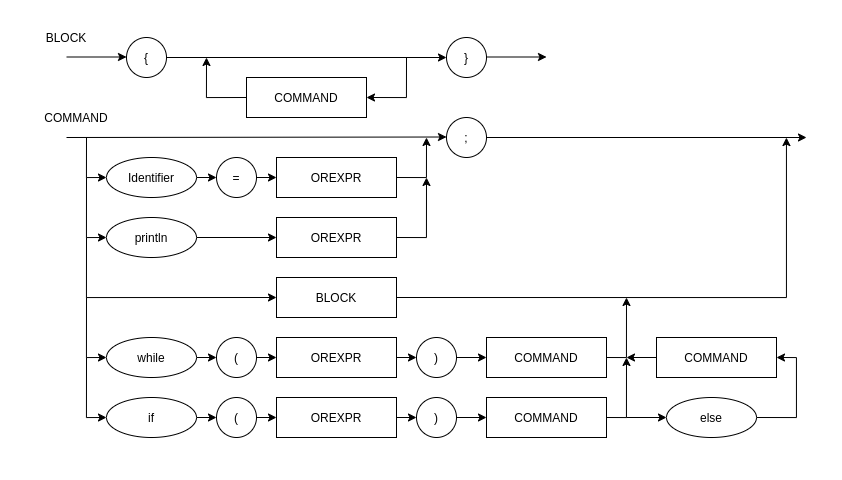
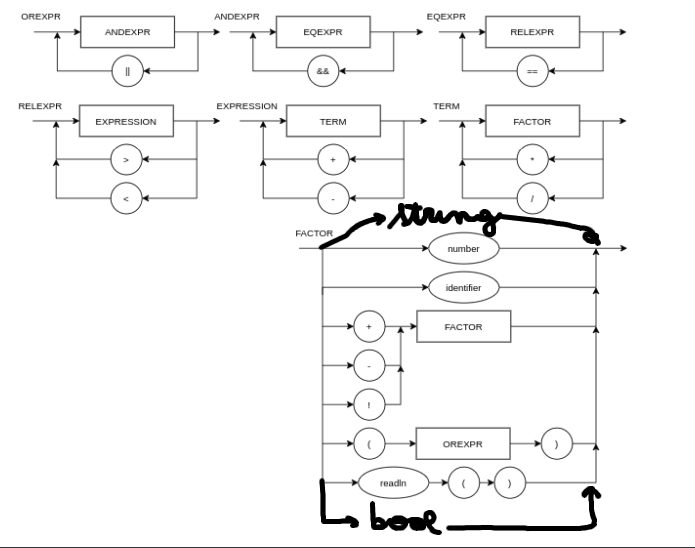
2.3

diff --git a/main.py b/main.py
@@ -2,8 +2,6 @@
 from enum import Enum
 import sys
 
-types = ["INT", "PLUS", "SUB", "DIV", "MULT", "EOF"]
-
 class Type(Enum):
 
     INT = 1
@@ -30,6 +28,11 @@ class Type(Enum):
     WHILE = 22
     SKEY = 23
     EKEY = 24
+    BOOLDEF = 25
+    INTDEF = 26
+    STRDEF = 27
+    BOOL = 28
+    STR = 29
 
 class Token:
 
@@ -53,7 +56,7 @@ class Tokenizer:
             return
 
         tmp = self.origin[self.position]
-
+        
         if tmp == ' ' or tmp == '\n': 
             while (tmp == ' ' or tmp == '\n'):
                 self.position += 1
@@ -78,8 +81,13 @@ class Tokenizer:
             self.position -= 1
             token = Token(Type.INT, int(int_))
         
-        elif tmp.isalpha():
+        elif tmp.isalpha() or tmp == '"':
             str_ = ''
+
+            if tmp == '"': 
+                str_ += '"'
+                self.position += 1
+
             while (True):
                 if len(self.origin) > self.position and (self.origin[self.position].isnumeric() or self.origin[self.position].isalpha() or self.origin[self.position] == "_"):
                     str_ += self.origin[self.position]
@@ -91,6 +99,12 @@ class Tokenizer:
                         token = Token(Type.PRINTLN, None)
                         break
                     
+                    elif str_[0] == '"':
+                        str_ += self.origin[self.position]
+                        self.position += 1
+                        token = Token(Type.STR, str_)
+                        break
+
                     elif str_ == "readln":
                         token = Token(Type.READLN, None)
                         break
@@ -105,6 +119,22 @@ class Tokenizer:
                         
                     elif str_ == "else":
                         token = Token(Type.ELSE, None)
+                        break
+                
+                    elif str_ == "bool":
+                        token = Token(Type.BOOLDEF, None)
+                        break
+                        
+                    elif str_ == "string":
+                        token = Token(Type.STRDEF, None)
+                        break
+                    
+                    elif str_ == "int":
+                        token = Token(Type.INTDEF, None)
+                        break
+                
+                    elif str_ == "true" or str_ == "false":
+                        token = Token(Type.BOOL, str_)
                         break
                         
                     else: 
@@ -176,11 +206,24 @@ class SymbolTable:
         self.dict = {}
 
     def _get(self, var_name: str) -> int:
-        if var_name in self.dict: return self.dict[var_name]
+        if var_name in self.dict: return self.dict[var_name]["value"], self.dict[var_name]["type"]
         raise_error("key not found")
 
-    def _set(self, var_name: str, var_value: int):
-        self.dict[var_name] = var_value
+    def _set(self, var_name: str, var_value: int, var_type: Type):
+        if not var_name in self.dict:
+            if var_value != None: raise_error("not initialized var")
+            self.dict[var_name] = {}
+            self.dict[var_name]["type"] = var_type
+        
+        else:
+            if var_type != None: raise_error("double definition of types")
+            if self.dict[var_name]["type"] != var_type: 
+                if var_type == Type.STR or self.dict[var_name]["type"] == Type.STR: raise_error("not compatible types")
+
+                if var_type == Type.BOOL: var_value = int(var_value)
+                elif var_type == Type.INT: var_value = bool(var_value)
+
+            self.dict[var_name]["value"] = var_value
 
 class Node:
 
@@ -196,27 +239,37 @@ class BinOp(Node):
         super().__init__(token, 2)
     
     def evaluate(self, st: SymbolTable): 
-        r = 0
-        if self.token.type_ == Type.PLUS: 
-            r = self.children[0].evaluate(st) + self.children[1].evaluate(st)
-        elif self.token.type_ == Type.SUB: 
-            r = self.children[0].evaluate(st) - self.children[1].evaluate(st)
-        elif self.token.type_ == Type.DIV: 
-            r = int(self.children[0].evaluate(st) / self.children[1].evaluate(st))
-        elif self.token.type_ == Type.MULT: 
-            r = int(self.children[0].evaluate(st) * self.children[1].evaluate(st))
-        elif self.token.type_ == Type.GT: 
-            r = self.children[0].evaluate(st) > self.children[1].evaluate(st)
-        elif self.token.type_ == Type.LT: 
-            r = self.children[0].evaluate(st) < self.children[1].evaluate(st)
-        elif self.token.type_ == Type.ET: 
-            r = self.children[0].evaluate(st) == self.children[1].evaluate(st)
-        elif self.token.type_ == Type.AND: 
-            r = self.children[0].evaluate(st) and self.children[1].evaluate(st)
-        elif self.token.type_ == Type.OR: 
-            r = self.children[0].evaluate(st) or self.children[1].evaluate(st)
+        eval1 = self.children[0].evaluate(st)
+        eval2 = self.children[1].evaluate(st)
+        
+        if (eval1[1] == Type.STR or eval2[1] == Type.STR) and self.token.type_ != Type.ET: raise_error("incompatible types")
 
-        return r
+        if self.token.type_ == Type.PLUS: 
+            return eval1[0] + eval2[1], Type.INT
+
+        elif self.token.type_ == Type.SUB: 
+            return eval1[0] - eval2[1], Type.INT
+
+        elif self.token.type_ == Type.DIV: 
+            return int(eval1[0] / eval2[0]), Type.INT
+
+        elif self.token.type_ == Type.MULT: 
+            return int(eval1[0] * eval2[0]), Type.INT
+
+        elif self.token.type_ == Type.GT:
+            return bool(eval1[0] > eval2[0]), Type.BOOL
+ 
+        elif self.token.type_ == Type.LT: 
+            return bool(eval1[0] < eval2[0]), Type.BOOL
+
+        elif self.token.type_ == Type.ET: 
+            return bool(eval1[0] == eval2[0]), Type.BOOL
+
+        elif self.token.type_ == Type.AND: 
+            return bool(eval1[0] and eval2[0]), Type.BOOL
+
+        elif self.token.type_ == Type.OR: 
+            return bool(eval1[0] or eval2[0]), Type.BOOL
 
 class AtrOp(Node):
 
@@ -224,28 +277,37 @@ class AtrOp(Node):
         super().__init__(token, 2)
     
     def evaluate(self, st: SymbolTable): 
-        st._set(self.children[0].token.value, self.children[1].evaluate(st))
+        node = self.children[1].evaluate(st)
+        st._set(self.children[0].token.value, node[0], None)
 
 class UnOp(Node):
 
     def __init__(self, token: Token):
         super().__init__(token, 1)
     
-    def evaluate(self, st: SymbolTable): return self.token.value * self.children[0].evaluate(st)
+    def evaluate(self, st: SymbolTable): 
+        node = self.children[0].evaluate(st)
+        return self.token.value * node[0], node[1]
 
 class NotOp(Node):
 
     def __init__(self, token: Token):
         super().__init__(token, 1)
     
-    def evaluate(self, st: SymbolTable): return not self.children[0].evaluate(st)
+    def evaluate(self, st: SymbolTable): 
+        node = self.children[0].evaluate(st)
+        return not node[0], node[1] 
 
 class PrintOp(Node):
 
     def __init__(self, token: Token):
         super().__init__(token, 1)
     
-    def evaluate(self, st: SymbolTable): print(self.children[0].evaluate(st))
+    def evaluate(self, st: SymbolTable): 
+        node = self.children[0].evaluate(st)
+        p = node[0]
+        if node[1] == Type.BOOL: p = "true" if node[0] else "false"
+        print(p)
 
 class ReadlnOp(Node):
 
@@ -259,7 +321,32 @@ class IntVal(Node):
     def __init__(self, token: Token):
         super().__init__(token, 0)
     
-    def evaluate(self, st: SymbolTable): return self.token.value
+    def evaluate(self, st: SymbolTable): return self.token.value, self.token.type_
+
+class StringVal(Node):
+
+    def __init__(self, token: Token):
+        super().__init__(token, 0)
+    
+    def evaluate(self, st: SymbolTable): return self.token.value[1:-1], self.token.type_
+
+class BoolVal(Node):
+
+    def __init__(self, token: Token):
+        super().__init__(token, 0)
+    
+    def evaluate(self, st: SymbolTable): return True if self.token.value == "true" else False, self.token.type_
+
+class TypeVal(Node):
+    def __init__(self, token: Token):
+        super().__init__(token, 1)
+    
+    def evaluate(self, st: SymbolTable): 
+        if self.token.type_ == Type.INTDEF: type_ = Type.INT
+        elif self.token.type_ == Type.STRDEF: type_ = Type.STR
+        elif self.token.type_ == Type.BOOLDEF: type_ = Type.BOOL
+
+        st._set(self.children[0].value, None, type_)
 
 class WhileOp(Node):
 
@@ -267,7 +354,7 @@ class WhileOp(Node):
         super().__init__(token, 2)
     
     def evaluate(self, st: SymbolTable): 
-        while(self.children[0].evaluate(st)): self.children[1].evaluate(st)
+        while(self.children[0].evaluate(st)[0]): self.children[1].evaluate(st)[0]
 
 class CondOp(Node):
 
@@ -275,11 +362,10 @@ class CondOp(Node):
         super().__init__(token, 3)
     
     def evaluate(self, st: SymbolTable): 
-        cond = self.children[0].evaluate(st)
-        if cond: self.children[1].evaluate(st)
+        cond = self.children[0].evaluate(st)[0]
+        if cond: self.children[1].evaluate(st)[0]
         if self.children[2] != None:
-            if not cond: self.children[2].evaluate(st)
-
+            if not cond: self.children[2].evaluate(st)[0]
 
 class IdentVal(Node):
 
@@ -325,10 +411,20 @@ class Parser:
             node = IntVal(self.tokenizer.actual)
             self.tokenizer.select_next()
             return node
+        
+        elif self.tokenizer.actual.type_ == Type.BOOL:
+            node = BoolVal(self.tokenizer.actual)
+            self.tokenizer.select_next()
+            return node
+        
+        elif self.tokenizer.actual.type_ == Type.STR:
+            node = StringVal(self.tokenizer.actual)
+            self.tokenizer.select_next()
+            return node
 
         elif self.tokenizer.actual.type_ == Type.PLUS or self.tokenizer.actual.type_ == Type.SUB:
             node = UnOp(self.tokenizer.actual)
-            self.tokenizer.select_next() 
+            self.tokenizer.select_next()
             node.children[0] = self.factor()
             return node
         
@@ -479,12 +575,22 @@ class Parser:
             else: raise_error("not closed sintax")
 
             return node
-        
+
+        elif self.tokenizer.actual.type_ in [Type.BOOLDEF, Type.INTDEF, Type.STRDEF]:
+            node = TypeVal(self.tokenizer.actual)
+            self.tokenizer.select_next()
+            if self.tokenizer.actual.type_ != Type.IDENTIFIER: raise_error("wrong definition of variable")
+            node.children[0] = self.tokenizer.actual
+            self.tokenizer.select_next()
+            if self.tokenizer.actual.type_ == Type.EOL: self.tokenizer.select_next()
+            else: raise_error("not closed sintax")
+            return node
+
         elif self.tokenizer.actual.type_ == Type.PRINTLN:
             node = PrintOp(self.tokenizer.actual)
             self.tokenizer.select_next()
             if self.tokenizer.actual.type_ != Type.SPARENTHESIS: raise_error("println is a reserved word")
-            node.children[0] = self.orexpr()
+            node.children[0] = self.orexpr()    
             if self.tokenizer.actual.type_ == Type.EOL: self.tokenizer.select_next()
             else: raise_error("not closed sintax")
             return node
@@ -517,7 +623,6 @@ class Parser:
             self.tokenizer.select_next()
 
         else: 
-            # print(self.tokenizer.actual.type_)
             raise_error("not closed sintax")
 
     def block(self):

diff --git a/file.c b/file.c
@@ -1,5 +1,7 @@
 {
-    if (0 >1)
-        println(1);
-    println(0);
+    bool a;
+    
+    a = true;
+    a = !a;
+    println(a);
 }

diff --git a/README.md b/README.md
@@ -8,7 +8,7 @@ Exemplo: python3 main.py "2+2"
 
 BLOCK = "{", { COMMAND }, "}" ; 
 
-COMMAND = ( λ | ASSIGNMENT | PRINT | BLOCK | WHILE | IF), ";" ; 
+COMMAND = ( λ | ASSIGNMENT | PRINT | BLOCK | WHILE | IF | STRDEF | BOOLDEF | INTDEF), ";" ; 
 
 WHILE = "while", "(", OREXPR ,")", COMMAND;
 
@@ -30,12 +30,18 @@ EXPRESSION = TERM, { ("+" | "-"), TERM } ;
 
 TERM = FACTOR, { ("*" | "/"), FACTOR } ; 
 
-FACTOR = (("+" | "-" | "!" ), FACTOR) | NUMBER | "(", OREXPR,  ")" | IDENTIFIER | READLN;
+FACTOR = (("+" | "-" | "!" ), FACTOR) | NUMBER | BOOL | STR | "(", OREXPR,  ")" | IDENTIFIER | READLN;
 
 READLN = "readln", "(",")";
 
 IDENTIFIER = LETTER, { LETTER | DIGIT | "_" } ; 
 
+INTDEF = int, IDENTIFIER ;
+BOOLDEF = bool, IDENTIFIER ;
+STRDEF = str, IDENTIFIER ;
+
 NUMBER = DIGIT, { DIGIT } ; 
+BOOL = true | false ; 
+STR = " , LETTER | DIGIT, " ; 
 LETTER = ( a | ... | z | A | ... | Z ) ; 
 DIGIT = ( 1 | 2 | 3 | 4 | 5 | 6 | 7 | 8 | 9 | 0 ) ;
